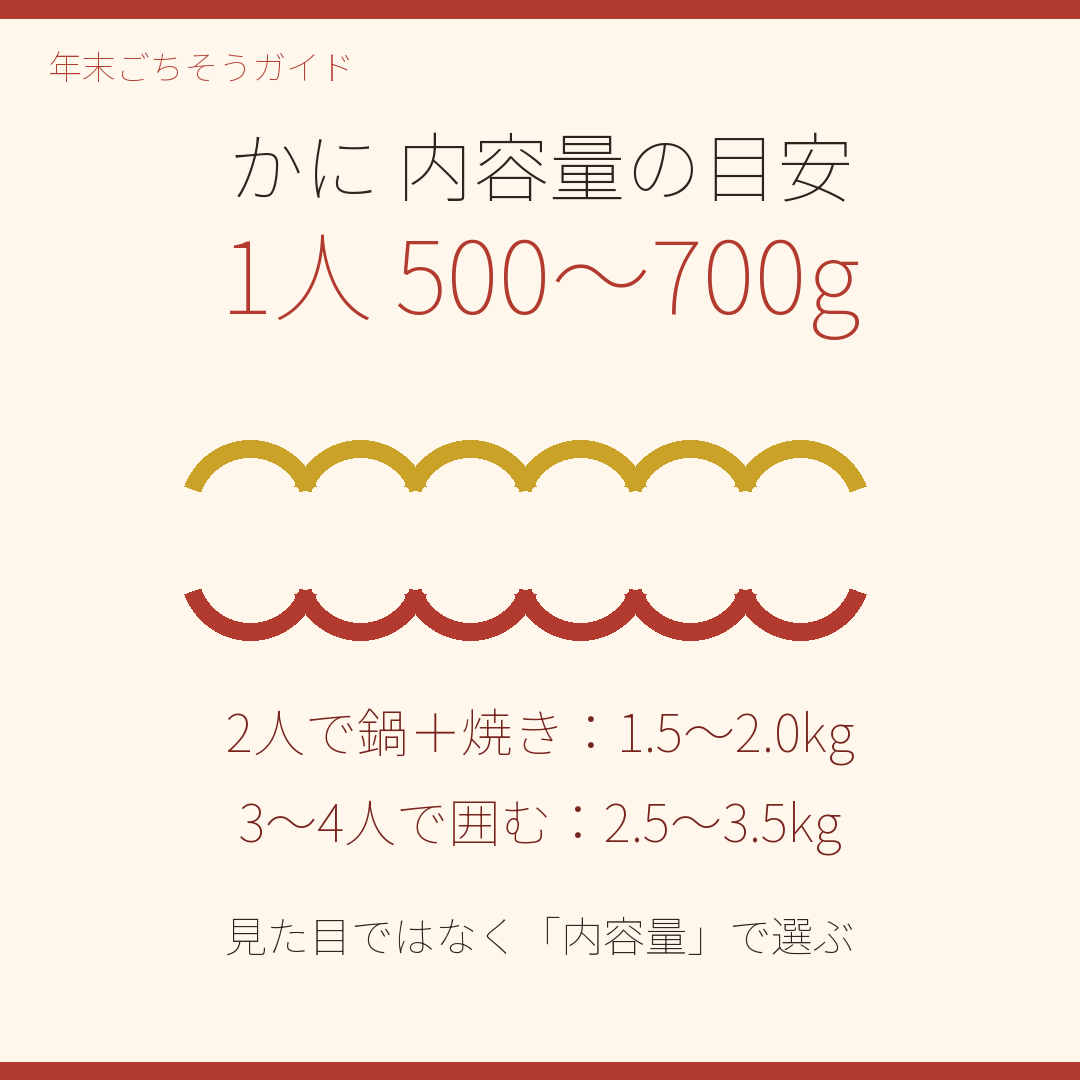
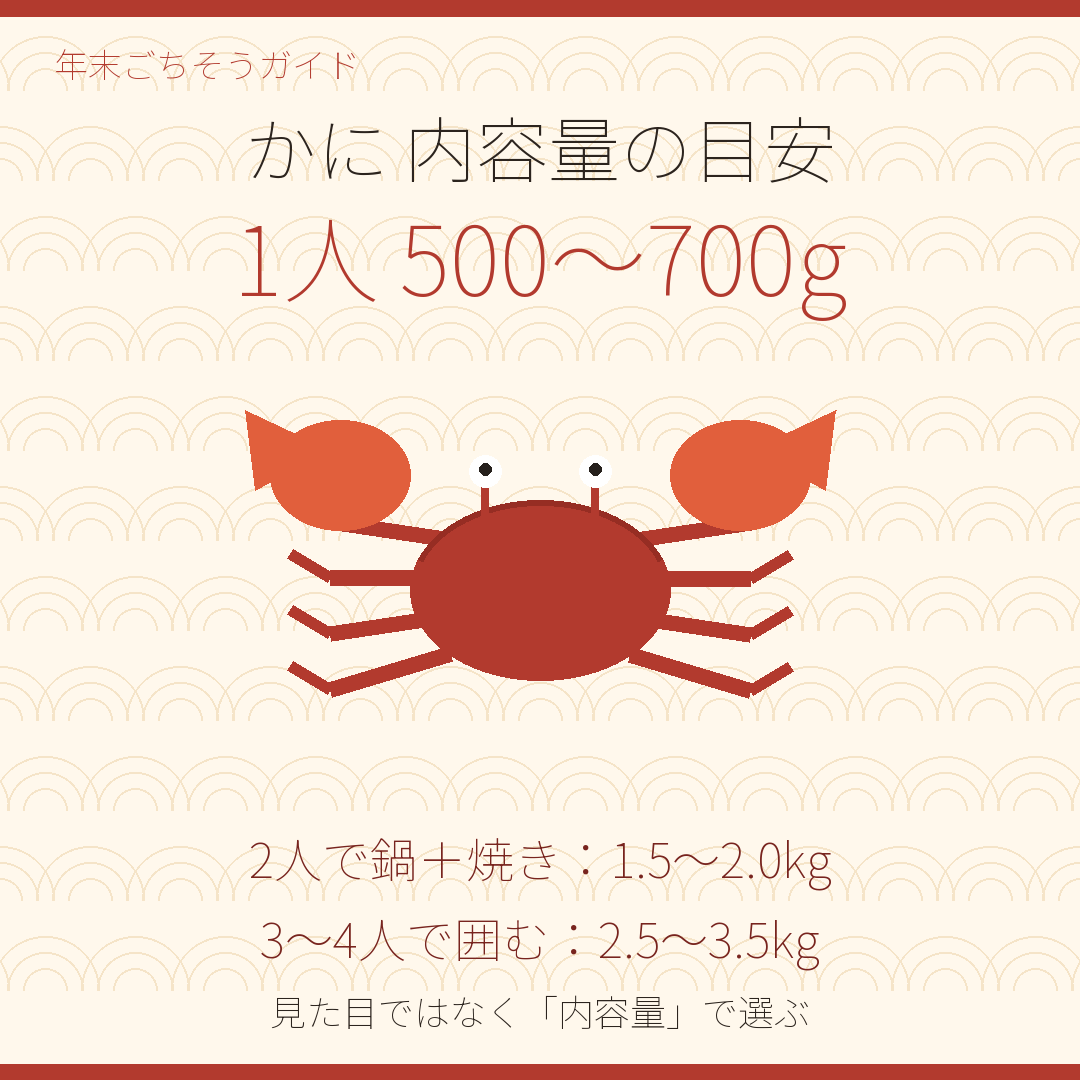
fix: おせち画像を料理入り重箱に作り直して再投稿

diff --git a/scripts/make_sns_images.py b/scripts/make_sns_images.py
@@ -3,77 +3,174 @@ from pathlib import Path
 
 OUT = Path("sns/assets")
 OUT.mkdir(exist_ok=True)
-FONT_B = "C:\\Windows\\Fonts\\NotoSansJP-VF.ttf"
-FONT_R = "C:\\Windows\\Fonts\\NotoSansJP-VF.ttf"
+FONT = "C:\\Windows\\Fonts\\NotoSansJP-VF.ttf"
 
 W = H = 1080
-CREAM = (255, 247, 236)
+CREAM = (255, 248, 236)
 RED = (178, 58, 46)
 DARK = (120, 36, 30)
 GOLD = (201, 162, 39)
 INK = (44, 36, 30)
+WHITE = (255, 255, 255)
+GREEN = (74, 110, 60)
+BLACK = (38, 32, 28)
 
 
-def font(size, bold=False):
-    f = ImageFont.truetype(FONT_B if bold else FONT_R, size)
-    return f
+def font(size):
+    return ImageFont.truetype(FONT, size)
 
 
-def center_text(d, y, text, size, fill, bold=False, spacing=8):
-    f = font(size, bold)
+def center_text(d, y, text, size, fill):
+    f = font(size)
     box = d.textbbox((0, 0), text, font=f)
     w = box[2] - box[0]
-    d.text(((W - w) / 2, y), text, font=f, fill=fill, spacing=spacing)
-    return y + (box[3] - box[1]) + spacing
+    d.text(((W - w) / 2, y), text, font=f, fill=fill)
+    return y + (box[3] - box[1]) + 8
 
 
-def draw_jubako(d, cx, cy, scale=1.0):
-    s = scale
-    d.rounded_rectangle((cx - 230*s, cy - 170*s, cx + 230*s, cy - 108*s), radius=14*s, fill=DARK)
-    d.ellipse((cx - 22*s, cy - 192*s, cx + 22*s, cy - 160*s), fill=DARK)
-    tiers = [
-        (cy - 95*s, cy - 25*s, RED),
-        (cy - 15*s, cy + 55*s, GOLD),
-        (cy + 65*s, cy + 135*s, RED),
-    ]
-    for y1, y2, color in tiers:
-        d.rounded_rectangle((cx - 215*s, y1, cx + 215*s, y2), radius=10*s, fill=color)
-        for x in range(-150, 180, 90):
-            d.ellipse((cx + x*s, (y1+y2)/2 - 13*s, cx + (x+26)*s, (y1+y2)/2 + 13*s), fill=CREAM)
-    d.rounded_rectangle((cx - 235*s, cy + 145*s, cx + 235*s, cy + 170*s), radius=8*s, fill=DARK)
+def seigaiha_bg(d):
+    for row in range(0, H, 90):
+        for col in range(-90, W + 90, 90):
+            x = col + (45 if (row // 90) % 2 else 0)
+            for r in (22, 38, 54):
+                d.arc((x - r, row - r, x + r, row + r), 180, 360, fill=(245, 228, 200), width=2)
+
+
+def kuromame(d, x, y):
+    for dx, dy in [(0, 0), (26, -8), (52, 4), (14, 20), (42, 24)]:
+        d.ellipse((x+dx, y+dy, x+dx+22, y+dy+22), fill=BLACK)
+        d.ellipse((x+dx+5, y+dy+4, x+dx+11, y+dy+10), fill=(90, 80, 70))
+
+
+def kamaboko(d, x, y):
+    d.pieslice((x, y, x+86, y+86), 180, 360, fill=WHITE)
+    d.pieslice((x+30, y, x+86, y+86), 180, 360, fill=RED)
+    d.arc((x, y, x+86, y+86), 180, 360, fill=GOLD, width=3)
+
+
+def daidai(d, x, y):
+    d.ellipse((x, y+8, x+66, y+74), fill=(240, 160, 35))
+    d.ellipse((x+8, y+16, x+30, y+38), fill=(255, 195, 80))
+    d.ellipse((x+28, y-4, x+62, y+22), fill=GREEN)
+
+
+def ebi(d, x, y):
+    for i in range(4):
+        off = i * 18
+        d.arc((x+off, y, x+off+60, y+70), 250, 450, fill=(235, 120, 60), width=12)
+    d.ellipse((x+48, y+34, x+78, y+62), fill=(255, 170, 100))
+
+
+def kazunoko(d, x, y):
+    for dx in range(0, 90, 18):
+        for dy in range(0, 54, 18):
+            d.ellipse((x+dx, y+dy, x+dx+14, y+dy+14), fill=(245, 210, 90), outline=(210, 165, 55), width=1)
+
+
+def kombumaki(d, x, y):
+    for i in range(3):
+        ox = i * 34
+        d.ellipse((x+ox, y, x+ox+42, y+52), fill=(52, 78, 58))
+        d.arc((x+ox+8, y+8, x+ox+34, y+44), 0, 360, fill=GOLD, width=3)
+        d.arc((x+ox+15, y+14, x+ox+29, y+38), 0, 360, fill=(120, 150, 100), width=2)
+
+
+def kuri(d, x, y):
+    for i in range(3):
+        ox = i * 32
+        d.ellipse((x+ox, y+10, x+ox+34, y+48), fill=(130, 78, 40))
+        d.polygon([(x+ox+10, y+8), (x+ox+24, y+8), (x+ox+17, y+2)], fill=(90, 50, 25))
+
+
+def anago(d, x, y):
+    for i in range(3):
+        ox = i * 46
+        d.rounded_rectangle((x+ox, y+6, x+ox+40, y+50), radius=8, fill=(150, 90, 45))
+        d.line((x+ox+6, y+18, x+ox+34, y+18), fill=(90, 50, 25), width=3)
+        d.line((x+ox+6, y+34, x+ox+34, y+34), fill=(90, 50, 25), width=3)
+
+
+def draw_jubako(d):
+    x0, x1 = 170, 910
+    y0, y1 = 330, 810
+    # lid
+    d.rounded_rectangle((x0-12, y0-44, x1+12, y0+6), radius=10, fill=DARK, outline=GOLD, width=4)
+    d.ellipse((530, y0-62, 576, y0-30), fill=GOLD)
+    # box
+    d.rounded_rectangle((x0, y0, x1, y1), radius=12, fill=(110, 32, 28), outline=GOLD, width=5)
+    tiers = [(y0+12, y0+154), (y0+164, y0+306), (y0+316, y0+458)]
+    for i, (a, b) in enumerate(tiers):
+        d.rectangle((x0+8, a, x1-8, b), fill=DARK)
+        d.line((x0+8, b, x1-8, b), fill=GOLD, width=3)
+    # tier 1
+    kuromame(d, 200, 360)
+    kamaboko(d, 380, 356)
+    daidai(d, 540, 352)
+    ebi(d, 680, 356)
+    # tier 2
+    kazunoko(d, 205, 512)
+    kombumaki(d, 365, 515)
+    kuri(d, 550, 516)
+    daidai(d, 720, 512)
+    # tier 3
+    anago(d, 205, 664)
+    kamaboko(d, 405, 660)
+    kuromame(d, 560, 662)
+    ebi(d, 720, 660)
+
+
+def draw_crab(d):
+    cx, cy = 540, 570
+    # legs
+    for side in (-1, 1):
+        for i in range(4):
+            y = cy - 30 + i * 38
+            d.line((cx + side*90, y, cx + side*210, y + (i-1)*18), fill=RED, width=16)
+            d.line((cx + side*210, y + (i-1)*18, cx + side*250, y + (i-1)*18 - 24), fill=RED, width=12)
+    # claws
+    for side in (-1, 1):
+        bx = cx + side*200
+        d.ellipse((bx-70, cy-150, bx+70, cy-40), fill=(225, 95, 60))
+        d.polygon([(bx+side*10, cy-120), (bx+side*95, cy-160), (bx+side*85, cy-80)], fill=(225, 95, 60))
+    # body
+    d.ellipse((cx-130, cy-70, cx+130, cy+110), fill=RED)
+    d.arc((cx-130, cy-70, cx+130, cy+110), 200, 340, fill=(150, 45, 35), width=6)
+    # eyes
+    for side in (-1, 1):
+        ex = cx + side*55
+        d.line((ex, cy-55, ex, cy-95), fill=RED, width=8)
+        d.ellipse((ex-16, cy-115, ex+16, cy-83), fill=WHITE)
+        d.ellipse((ex-6, cy-107, ex+6, cy-95), fill=BLACK)
 
 
 def base():
     img = Image.new("RGB", (W, H), CREAM)
     d = ImageDraw.Draw(img)
-    d.rectangle((0, 0, W, 18), fill=RED)
-    d.rectangle((0, H-18, W, H), fill=RED)
+    seigaiha_bg(d)
+    d.rectangle((0, 0, W, 16), fill=RED)
+    d.rectangle((0, H-16, W, H), fill=RED)
     return img, d
 
 
-# おせち早割
+# おせち
 img, d = base()
-d.text((48, 46), "年末ごちそうガイド", font=font(34, True), fill=RED)
-y = center_text(d, 120, "おせち 早割", 92, INK, True)
-y = center_text(d, y + 10, "12/10まで", 132, RED, True)
-draw_jubako(d, W//2, 660, 1.15)
-y = center_text(d, 880, "料亭おせち 4,800円〜", 54, DARK, True)
-center_text(d, y + 8, "早割のうちに確保しよう", 40, INK)
+d.text((54, 44), "年末ごちそうガイド", font=font(34), fill=RED)
+center_text(d, 105, "おせち 早割", 86, INK)
+center_text(d, 208, "12/10まで", 112, RED)
+draw_jubako(d)
+center_text(d, 852, "料亭おせち 4,800円〜", 50, DARK)
+center_text(d, 928, "早割のうちに確保しよう", 38, INK)
 img.save(OUT / "osechi-post-1080.png")
 
-# かに 内容量
+# かに
 img, d = base()
-d.text((48, 46), "年末ごちそうガイド", font=font(34, True), fill=RED)
-y = center_text(d, 120, "かに 内容量の目安", 76, INK, True)
-y = center_text(d, y + 16, "1人 500〜700g", 100, RED, True)
-# crab-ish simple legs decoration
-for i in range(6):
-    x = 250 + i*110
-    d.arc((x-70, 440, x+70, 580), 200, 340, fill=GOLD, width=18)
-    d.arc((x-70, 500, x+70, 640), 20, 160, fill=RED, width=18)
-center_text(d, 700, "2人で鍋＋焼き：1.5〜2.0kg", 52, DARK, True)
-center_text(d, 790, "3〜4人で囲む：2.5〜3.5kg", 52, DARK, True)
-center_text(d, 910, "見た目ではなく「内容量」で選ぶ", 42, INK)
+d.text((54, 44), "年末ごちそうガイド", font=font(34), fill=RED)
+center_text(d, 105, "かに 内容量の目安", 72, INK)
+center_text(d, 200, "1人 500〜700g", 96, RED)
+draw_crab(d)
+center_text(d, 830, "2人で鍋＋焼き：1.5〜2.0kg", 48, DARK)
+center_text(d, 910, "3〜4人で囲む：2.5〜3.5kg", 48, DARK)
+center_text(d, 990, "見た目ではなく「内容量」で選ぶ", 36, INK)
 img.save(OUT / "kani-post-1080.png")
 
 for f in ["osechi-post-1080.png", "kani-post-1080.png"]:

diff --git a/sns/instagram-posts.md b/sns/instagram-posts.md
@@ -1,8 +1,8 @@
 # Instagram 投稿文案（@ririachannnn）
 
-> 投稿1（おせち早割）は 2026-11-25 に**高解像度版で再公開**：https://www.instagram.com/p/DgJVGAVyS2q/
-> 旧投稿（低解像度 250x250）は削除済み
-> 画像：`assets/osechi-post-1080.png`（1080x1080、Pillowで描いたオリジナル）
+> 投稿1（おせち早割）は 2026-11-25 に**おせち料理入り重箱バージョンで再公開**：https://www.instagram.com/p/DgJYFaVyaPM/
+> 旧投稿（250x250／ドットだけの重箱）は削除済み
+> 画像：`assets/osechi-post-1080.png`（1080x1080、黒豆・かまぼこ・だいだい・えび・数の子・昆布巻き・栗・穴子を描き込み）
 > これ以降の投稿画像はすべて 1080x1080（`scripts/make_sns_images.py` で生成）
 > プロフィールアイコン：`assets/profile-icon.png`（設定済み）
 > A8サイトID 002 のURLは `https://www.instagram.com/ririachannnn/` に更新済み
